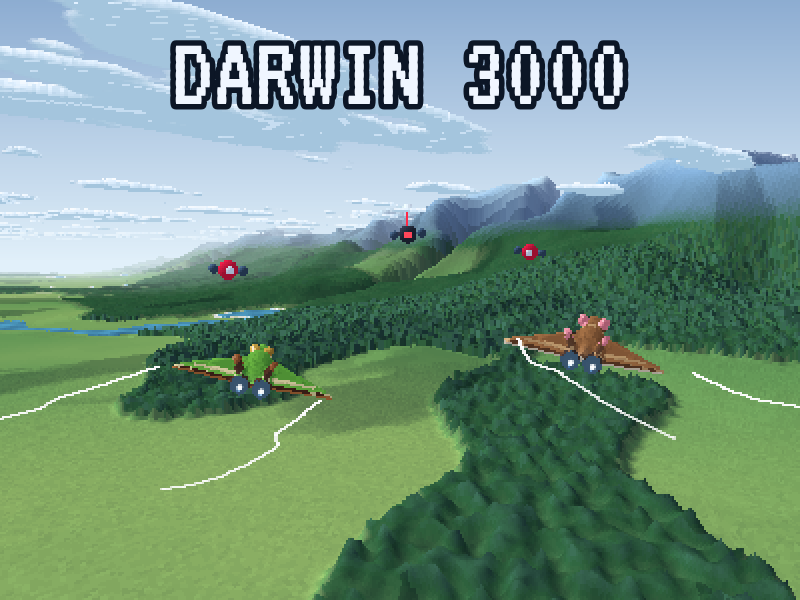
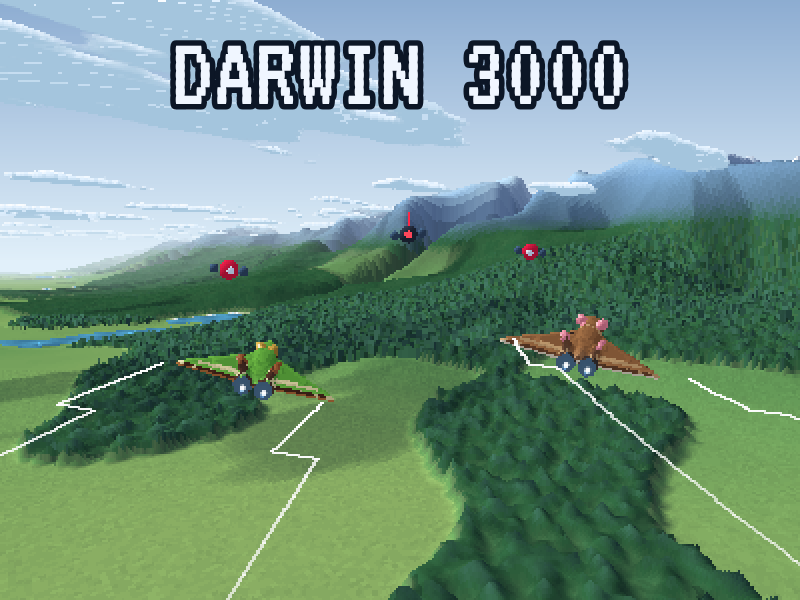
Correcciones tras la crítica: primer minuto, satélite atacable, dúo en pantalla, bordes del mapa, sensación de disparo y golpe, equilibrio

diff --git a/game.js b/game.js
@@ -893,6 +893,9 @@ let gMsg = '';
 let gMsgT = 0;
 let gShake = 0;
 let gFlash = 0;
+let gHit = 0; // the flash is a hit (red) and not a burst of light
+let gWhy = ''; // what hurt the crew last
+let pop = null; // points won, shown for a moment where they were won
 let gRain = 0; // how hard it is raining, 0 to 1
 let gBow = 0; // seconds of rainbow left once a storm has passed
 const drones = [];
@@ -912,10 +915,11 @@ const QUEB = []; // cells in the ravines of the cordillera, where mudslides star
 const talk = []; // who, line, who, line …
 let talkT = 0;
 let told = 0;
+let news = 0; // lines of news waiting their turn
 function tell(who, line, once) {
   if (told & once) return;
   told |= once;
-  if (once) talk.splice(2, 0, who, line); // news comes next, ahead of the story
+  if (once) talk.splice(2 + 2 * news++, 0, who, line); // news comes ahead of the story, in the order it happened
   else talk.push(who, line);
 }
 
@@ -1078,6 +1082,8 @@ function hurt(f, d, why) {
   f.inv = 1;
   gShake = 1;
   gFlash = 0.5;
+  gHit = 1;
+  gWhy = why;
   say(why, 1.2);
   tone(220, 50, 0.35, 'sawtooth', 0.2);
   burst(0.15, 0.15);
@@ -1108,20 +1114,21 @@ function startGame(two) {
   gT = gScore = gLow = gWater = gHacked = gPurge = gChan = gImmune = gEmN = gFlash = gRain = gBow = 0;
   gMult = 1;
   gShield = 100;
-  gSpawnT = 4;
+  gSpawnT = 3; // one thing at a time: drones first, then a fence, an emergency, and the satellite last
   gHackT = 20;
-  gFenceT = 9;
-  gEmT = 10;
-  gSatT = 14;
+  gFenceT = 25;
+  gEmT = 40;
+  gSatT = 110;
   drones.length = shots.length = fires.length = folk.length = fences.length = 0;
   sat = em = null;
   crew.length = 1;
-  Object.assign(lead, { s: 0, stam: 100, inv: 2, kick: 0, z: Math.max(lead.z, groundAt(lead.x, lead.y) + 20) });
-  talk.length = talkT = told = 0;
+  Object.assign(lead, { s: 0, stam: 100, inv: 2, kick: 0, z: groundAt(lead.x, lead.y) + 20 });
+  talk.length = talkT = told = news = 0;
   tone(220, 880, 0.5, 'triangle', 0.1);
+  tell(0, 'MANTÉN B1 PARA DISPARAR Y APUNTA\nCON LA NARIZ A LOS DRONES.');
   tell(0, 'AÑO 3000. LAS IA ENEMIGAS\nNOS ATACAN CON SUS DRONES.');
   tell(1, 'LA BIOINGENIERÍA NOS HIZO SÚPER LISTOS:\nPILOTEAMOS MEJOR QUE CUALQUIER IA.');
-  tell(0, 'DISPARA CON B1. VUELA BAJO\nPARA MULTIPLICAR LOS PUNTOS.');
+  tell(0, 'VUELA BAJO PARA MULTIPLICAR LOS PUNTOS:\nPALANCA ATRÁS SUBE, ADELANTE BAJA.');
   if (two) join();
 }
 
@@ -1162,8 +1169,9 @@ function modelPoint(f, ma, mb, mc, out, o) {
 
 function spawnDrone(k) {
   if (k) tell(0, '¡UN DRON HACKER! DERRÍBALO O HAZ\nUN TONEL ANTES DE QUE ENTRE.', 2);
-  else tell(0, '¡DRONES IA AL FRENTE!\nAPUNTA CON LA NARIZ Y DISPARA.', 1);
-  drones.push({ k, hp: k ? 4 : 2, r: k ? 1.9 : 1.5, a: 190, s: spread() * 50, u: 8, ta: 50, ts: 0, tu: 4, nt: 0, cd: 1.5 + rand(), ch: 0, x: 0, y: 0, z: 0 });
+  // they come in from one flank or the other, tougher as the flight goes on; the first ones
+  // hold their fire a while, and a hacker takes enough killing to get its hack started
+  drones.push({ k, hp: k ? 12 : 2 + Math.min(3, (gT / 90) | 0), r: k ? 1.9 : 1.5, a: 40 + rand() * 40, s: rand() < 0.5 ? -110 : 110, u: 8, ta: 50, ts: 0, tu: 4, nt: 0, cd: gT < 30 ? 6 : 1.5 + rand(), ch: 0, x: 0, y: 0, z: 0 });
 }
 
 // A spot of ground near the squad, mostly ahead of it, that passes the test.
@@ -1203,6 +1211,10 @@ function findWater() {
     }
   }
 }
+function siren() {
+  tone(880, 440, 0.4, 'square', 0.06);
+  tone(880, 440, 0.4, 'square', 0.06, 0.45);
+}
 function startFire() {
   const at = landNear(110, 260, GREEN);
   if (!at) return false;
@@ -1212,6 +1224,7 @@ function startFire() {
     if (!i || GREEN(x, y)) light(x, y);
   }
   em = { k: 0, t: 0 };
+  siren();
   say('¡INCENDIO!');
   tell(1, '¡INCENDIO! SIGUE LA FLECHA AL AGUA, MOJA EL\nBALDE Y SUÉLTALA SOBRE EL FUEGO CON B5.', 8);
   return true;
@@ -1258,6 +1271,7 @@ function startFlood() {
   }
   for (let i = 70; i < 230; i += 45) folk.push({ x: path[i * 2], y: path[i * 2 + 1], z: groundAt(path[i * 2], path[i * 2 + 1]), i });
   em = { k: 1, t: 0, path, at: 0, saved: 0 };
+  siren();
   say('¡TORMENTA!');
   tell(1, 'LLUEVE FUERTE EN LA CORDILLERA: SE VIENE UN\nALUVIÓN. PASA BAJITO SOBRE LAS BALIZAS.', 16);
   return true;
@@ -1281,9 +1295,9 @@ function douse(x, y, z) {
     }
   }
   if (!out) return;
-  gain(150 * out, 'FUEGO APAGADO');
+  gain(300 * out, 'FUEGO APAGADO');
   if (!fires.length && em) {
-    gain(800, 'INCENDIO CONTROLADO');
+    gain(1500, 'INCENDIO CONTROLADO');
     heal(25);
     endEmergency();
   }
@@ -1311,6 +1325,7 @@ function simulate(dt) {
     talkC = c;
     if (talkT > talk[1].length * 0.03 + 2.6) {
       talk.splice(0, 2); // the line has been read: on to the next
+      if (news) news--;
       talkT = 0;
     }
   }
@@ -1338,6 +1353,8 @@ function simulate(dt) {
     if (!play) {
       turn = Math.sin(now * 0.23) * 0.45; // out of play, it wanders by itself
       lift = clamp((Math.max(groundAt(f.x, f.y), groundAt(f.x + sx * 25, f.y + sy * 25)) + 16 - f.z) / 6, -1, 1);
+    } else if (!rawY && f.z < Math.max(groundAt(f.x, f.y), groundAt(f.x + sx * 14, f.y + sy * 14)) + 5) {
+      lift = 0.7; // hands off the stick, it will not fly into the ground: it lifts over what is ahead
     } else if (gHacked) {
       turn = -turn;
       lift = -lift;
@@ -1401,18 +1418,21 @@ function simulate(dt) {
         sq.y += sx * slide;
       }
     } else f.roll = 0;
-    f.s = duo ? clamp(f.s, -24, 24) : 0;
+    if (!rawX) f.s += ((f.id ? 8 : -8) - f.s) * dt * 1.2; // hands off, it drifts back to its own side
+    f.s = duo ? clamp(f.s, f.id ? lead.s + 10 : -15, f.id ? 15 : 5) : 0; // on screen, and never through its partner
     turns += f.turn / n;
     pushes += push / n;
   }
   if (gHacked) {
     gPurge = Math.max(0, gPurge - dt * 0.15);
+    gWhy = 'HACK';
     damage(dt * 2.5);
     if (((now * 3) | 0) !== (((now - dt) * 3) | 0)) tone(520, 260, 0.25, 'square', 0.07); // the alarm
     if (gPurge >= 1) {
       gHacked = 0;
       gImmune = 9;
       gFlash = 1;
+      gHit = 0;
       tone(200, 1600, 0.45, 'square', 0.07);
       for (const d of drones) if (d.k) d.hp = 0;
       gain(400, '¡HACKER EXPULSADO!');
@@ -1422,6 +1442,12 @@ function simulate(dt) {
   // ── the squad flies on
   const spd = SPEED * (1 + (BOOST - 1) * pushes);
   sq.yaw += turns * TURN_RATE * (duo ? 0.8 : 1) * dt;
+  // the map has edges: far out to sea, or on the snowfield beyond the cordillera, the squad is turned back
+  const out = sq.x < 40 ? 1 : sq.x > N - 70 ? -1 : 0;
+  if (play && out) {
+    sq.yaw += wrapAngle(out * 1.57 - sq.yaw) * dt * 2;
+    say('FUERA DE ZONA: DE VUELTA AL VALLE', 0.5);
+  }
   sq.x += sx * spd * dt;
   sq.y += sy * spd * dt;
 
@@ -1469,14 +1495,14 @@ function simulate(dt) {
 
     // guns: they track whatever enemy is nearest the line of the nose
     f.lock = null;
-    let best = 0.035;
+    let best = 0.06; // within about twenty degrees of the nose
     const aim = (t) => {
       const dx = t.x - f.x;
       const dy = t.y - f.y;
       const dz = t.z - f.z;
       const d = Math.hypot(dx, dy, dz);
-      const off = 1 - (dx * nx + dy * ny + dz * nz) / d;
-      if (d < 150 && off < best) {
+      const off = 1 - (dx * nx + dy * ny) / Math.hypot(dx, dy) / Math.hypot(nx, ny); // its bearing, level
+      if (d < 150 && off < best && Math.abs(dz) < d * 0.6) {
         best = off;
         f.lock = t;
       }
@@ -1581,7 +1607,7 @@ function simulate(dt) {
       dead = true;
       puff(s.x, s.y, s.z, 0, 0, 0, 0.14, 2, 1.3);
       if (!s.k) d.hp--;
-      else if (d.rollT <= 0) hurt(d, 14, '¡IMPACTO!'); // a roll turns it aside
+      else if (d.rollT <= 0) hurt(d, 9, '¡IMPACTO!'); // a roll turns it aside
     };
     if (s.z < gz) {
       dead = true;
@@ -1611,14 +1637,18 @@ function simulate(dt) {
   for (let i = drones.length - 1; i >= 0; i--) {
     const d = drones[i];
     if (d.hp <= 0) {
-      boom(d.x, d.y, d.z, 14);
-      if (play) gain(d.k ? 300 : 100, d.k ? 'HACKER DERRIBADO' : 'DRON DERRIBADO');
+      boom(d.x, d.y, d.z, 30);
+      if (play) {
+        gShake = 0.4;
+        pop = { x: d.x, y: d.y, z: d.z, t: now + 1, s: '+' + (d.k ? 300 : 100) * gMult };
+        gain(d.k ? 300 : 100, d.k ? 'HACKER DERRIBADO' : 'DRON DERRIBADO');
+      }
       drones.splice(i, 1);
       continue;
     }
     if (now > d.nt) {
-      d.ta = d.k ? 36 + rand() * 12 : 32 + rand() * 40;
-      d.ts = spread() * (d.k ? 14 : 32);
+      d.ta = d.k ? 36 + rand() * 12 : 40 + rand() * 35;
+      d.ts = spread() * (d.k ? 12 : 18);
       d.tu = spread() * 6 + 2;
       d.nt = now + 1.5 + rand() * 2.5;
     }
@@ -1633,7 +1663,7 @@ function simulate(dt) {
     if (!d.k) {
       d.cd -= dt;
       if (d.cd < 0 && d.a < 90) {
-        d.cd = 1.4 + rand() * 2;
+        d.cd = 2.2 + rand() * 2.4;
         shootAt(d, 0.6);
       }
     } else if (!gHacked && gImmune <= 0 && d.a < 70) {
@@ -1661,7 +1691,7 @@ function simulate(dt) {
     if (!sat) {
       gSatT -= dt;
       if (gSatT < 0) {
-        sat = { x: sq.x + cfx * 90, y: sq.y + cfy * 90, z: 285, hp: 14, r: 4.5, cd: 3 };
+        sat = { x: sq.x + cfx * 90, y: sq.y + cfy * 90, z: 285, hp: 40, r: 4.5, cd: 3 };
         tell(1, 'EL SATÉLITE HACKER ESTÁ EN LA\nESTRATÓSFERA. SUBE Y DESTRÚYELO.', 32);
       }
     } else if (sat.hp <= 0) {
@@ -1671,11 +1701,11 @@ function simulate(dt) {
       gSatT = 60;
       gHackT = 20;
     } else {
-      const e = 1 - Math.exp(-0.3 * dt);
+      const e = 1 - Math.exp(-3 * dt);
       sat.x += (sq.x + cfx * 60 - sat.x) * e;
       sat.y += (sq.y + cfy * 60 - sat.y) * e;
       sat.cd -= dt;
-      if (sat.cd < 0 && Math.hypot(sq.x - sat.x, sq.y - sat.y, sq.z - sat.z) < 130) {
+      if (sat.cd < 0 && Math.abs(sq.z - sat.z) < 40) {
         sat.cd = 1.3;
         shootAt(sat, 1);
       }
@@ -1741,6 +1771,7 @@ function simulate(dt) {
           if (GREEN(x, y)) light(x, y);
           if (fires.length > 11) {
             say('INCENDIO FUERA DE CONTROL', 2.5);
+            damage(15);
             gLow = 0;
             endEmergency();
           }
@@ -1753,6 +1784,7 @@ function simulate(dt) {
         }
         if (rand() < dt * 0.3) {
           gFlash = 0.6; // lightning, and its thunder a moment after
+          gHit = 0;
           burst(1.6, 0.3, 0.4, 0.1);
         }
         const o = (em.at | 0) * 2;
@@ -1765,16 +1797,17 @@ function simulate(dt) {
           if (crew.some((c) => Math.hypot(c.x - f.x, c.y - f.y) < 5 && c.z - f.z < 7)) {
             folk.splice(i, 1);
             em.saved++;
-            gain(500, '¡RESCATADO!');
+            gain(800, '¡RESCATADO!');
             heal(10);
             puff(f.x, f.y, f.z + 1, 0, 0, 6, 0.4, 2, 2);
           } else if (em.at >= f.i) {
             folk.splice(i, 1);
             say('EL ALUVIÓN SE LLEVÓ A ALGUIEN', 2);
+            damage(8);
           }
         }
         if (!folk.length) {
-          if (em.saved > 3) gain(600, 'TODOS A SALVO');
+          if (em.saved > 3) gain(1500, 'TODOS A SALVO');
           endEmergency();
         }
       }
@@ -2512,7 +2545,7 @@ function drawThings() {
     for (let o = 0; o < t.b.length; o += 6) slab(t.b[o], t.b[o + 1] + ty, t.b[o + 2], t.b[o + 3], t.b[o + 4], t.b[o + 5]);
   }
   for (const s of shots) {
-    if (!s.k) beam(s.x, s.y, s.z, s.x - s.vx * 0.025, s.y - s.vy * 0.025, s.z - s.vz * 0.025, 0.35, colShot, 255);
+    if (!s.k) beam(s.x, s.y, s.z, s.x - s.vx * 0.025, s.y - s.vy * 0.025, s.z - s.vz * 0.025, 0.6, WATER, 255);
     else ball(s.x, s.y, s.z, s.k === 2 ? 1 : s.r, s.k === 2 ? GLASS : GLOW, s.k === 1);
   }
 }
@@ -2716,7 +2749,23 @@ function drawHud() {
     text('AÑO 3000 · DRONES DE IA ENEMIGA ATACAN CHILE', CXS, 8, INK, 1, 1);
     text('RANITAS Y MONITOS SÚPER INTELIGENTES PILOTEAN LA DEFENSA', CXS, 21, DIM, 1, 1);
     text(over ? 'FIN DEL VUELO' : 'DARWIN 3000', CXS, 62, INK, 4, 1);
-    if (over) text('PUNTAJE ' + gScore + ' · RÉCORD ' + gBest, CXS, 104, GOLD, 2, 1);
+    if (over) {
+      text('PUNTAJE ' + gScore + ' · RÉCORD ' + gBest, CXS, 104, GOLD, 2, 1);
+      text(
+        gWhy === '¡IMPACTO!'
+          ? 'CONSEJO: MANTÉN B1 Y DERRIBA LOS DRONES ANTES DE QUE DISPAREN'
+          : gWhy === 'HACK'
+            ? 'CONSEJO: SI TE HACKEAN, AGITA LA PALANCA Y MACHACA B1'
+            : gWhy === '¡LÁSER!'
+              ? 'CONSEJO: CRUZA LAS VALLAS LÁSER CON UN TONEL (B2 O B3)'
+              : 'CONSEJO: TIRA LA PALANCA HACIA ATRÁS PARA SUBIR',
+        CXS,
+        124,
+        INK,
+        1,
+        1,
+      );
+    }
     else if (blink) text('START 1: UN JUGADOR · START 2: DOS', CXS, 104, GOLD, 2, 1);
     face(0, 6, BH - 54, 2);
     face(1, BW - 62, BH - 54, 2, 1);
@@ -2798,6 +2847,9 @@ function drawHud() {
   // with two aboard, each flyer wears its number
   if (crew[1]) for (const f of crew) if (project(f.x, f.y, f.z + 2.4)) text(f.id + 1, prX, prY - 8, f.id ? GOLD : INK, 1, 1);
 
+  if (!gScore && blink) text('MANTÉN B1 PARA DISPARAR', CXS, BH - 84, GOLD, 2, 1);
+  if (pop && now < pop.t && project(pop.x, pop.y, pop.z)) text(pop.s, prX, prY - 22 + (pop.t - now) * 10, GOLD, 2, 1);
+
   // what is going on, across the top of the picture
   if (gHacked) {
     text('¡HACKEADO!', CXS, 48, colRed, 3, 1);
@@ -2811,7 +2863,7 @@ function drawHud() {
   // marks: what cannot be seen and where to go, each with what to do
   for (const d of drones) mark(d.x, d.y, d.z, colRed, d.k ? 'HACKER' : 'DRON');
   for (const f of fences) mark(f.x, f.y, (f.z0 + f.z1) / 2, colRed, 'LÁSER: TONEL');
-  if (sat) mark(sat.x, sat.y, sat.z, colRed, 'SATÉLITE: SUBE', 1);
+  if (sat) mark(sat.x, sat.y, sat.z, colRed, sat.z - sq.z > 30 ? 'SATÉLITE: SUBE' : 'SATÉLITE: DISPARA', 1);
   if (folk[0]) mark(goal.x, goal.y, goal.z + 4, INK, 'RESCATE: PASA BAJITO', 1);
   else if (goal) mark(goal.x, goal.y, goal.z + 4, colFire, gWater ? 'FUEGO: SUELTA B5' : 'FUEGO', gWater);
   if (wet) mark(wet.x, wet.y, wet.z + 3, WATER, 'AGUA: MOJA EL BALDE', 1);
@@ -2880,7 +2932,7 @@ function drawFrame() {
   if (gHacked || gChan > 0.4) glitch(gHacked ? 1 : gChan * 0.5);
   if (gFlash > 0.02) {
     const a = (gFlash * 200) | 0;
-    for (let p = 0; p < FB.length; p++) FB[p] = mix(FB[p], colTrail, a);
+    for (let p = 0; p < FB.length; p++) FB[p] = mix(FB[p], gHit ? colRed : colTrail, a);
   }
   drawHud();
 }
@@ -2934,7 +2986,14 @@ function create() {
 function update(time, delta) {
   if (gMode !== PLAY && gT > 1 && (pressed.START1 || pressed.START2 || pressed.P1_1)) startGame(pressed.START2);
 
-  simulate(Math.min(delta / 1000, 0.05));
+  let dt = Math.min(delta / 1000, 0.1);
+  if (dt > 0.05) {
+    // a slow machine keeps real time: a long frame is flown in two steps
+    dt /= 2;
+    simulate(dt);
+    for (const key in pressed) pressed[key] = false;
+  }
+  simulate(dt);
   sound();
   const t0 = performance.now();
   drawFrame();
